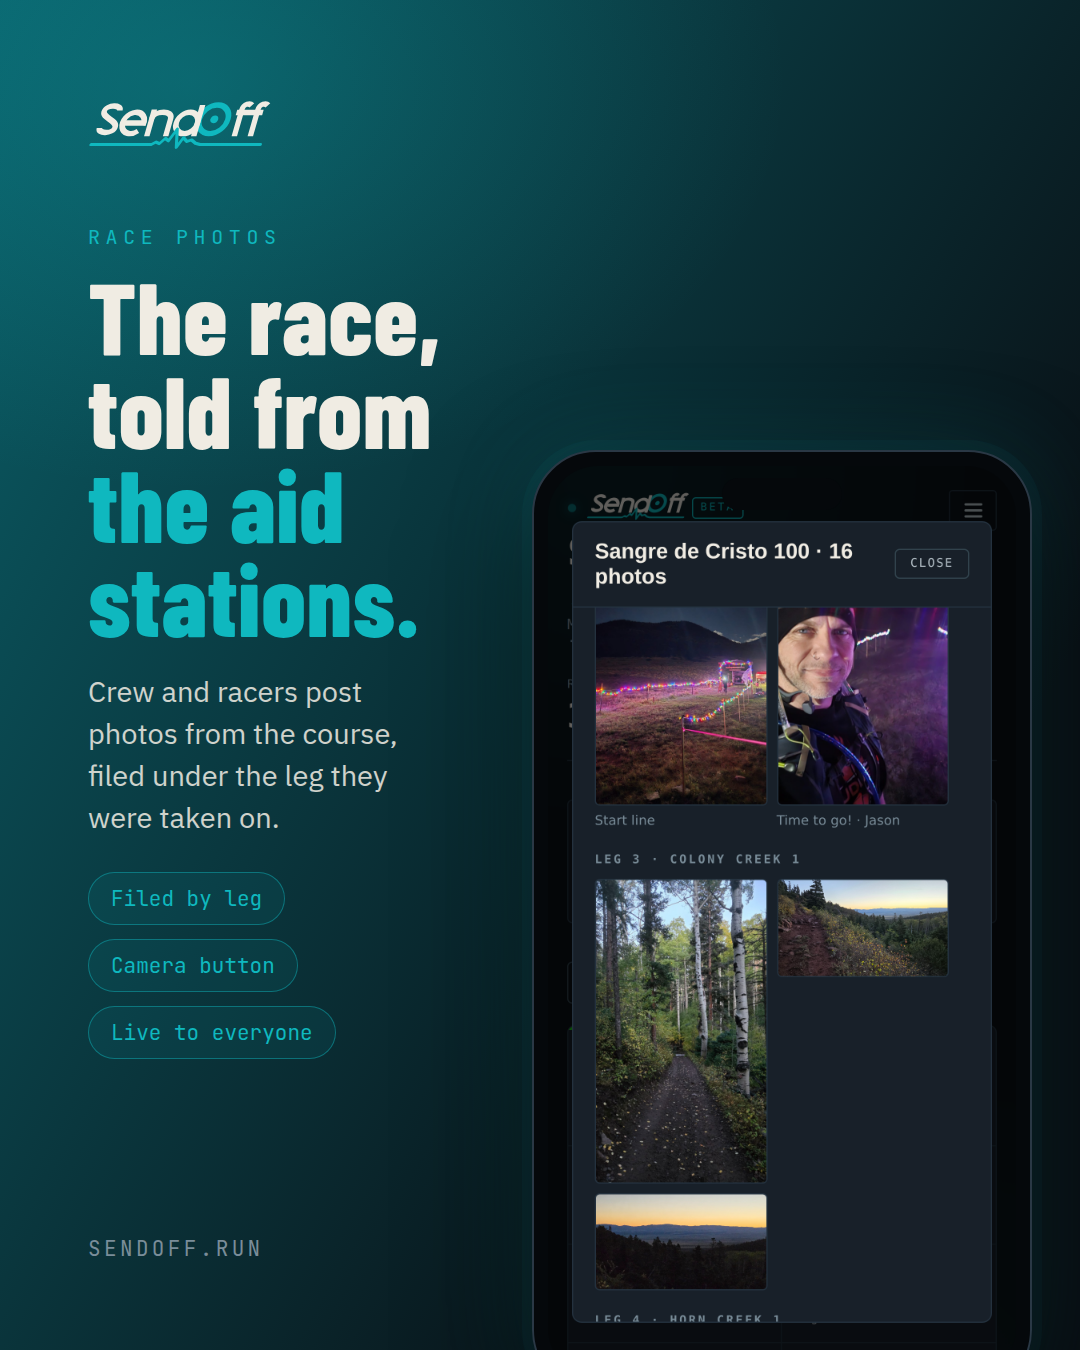
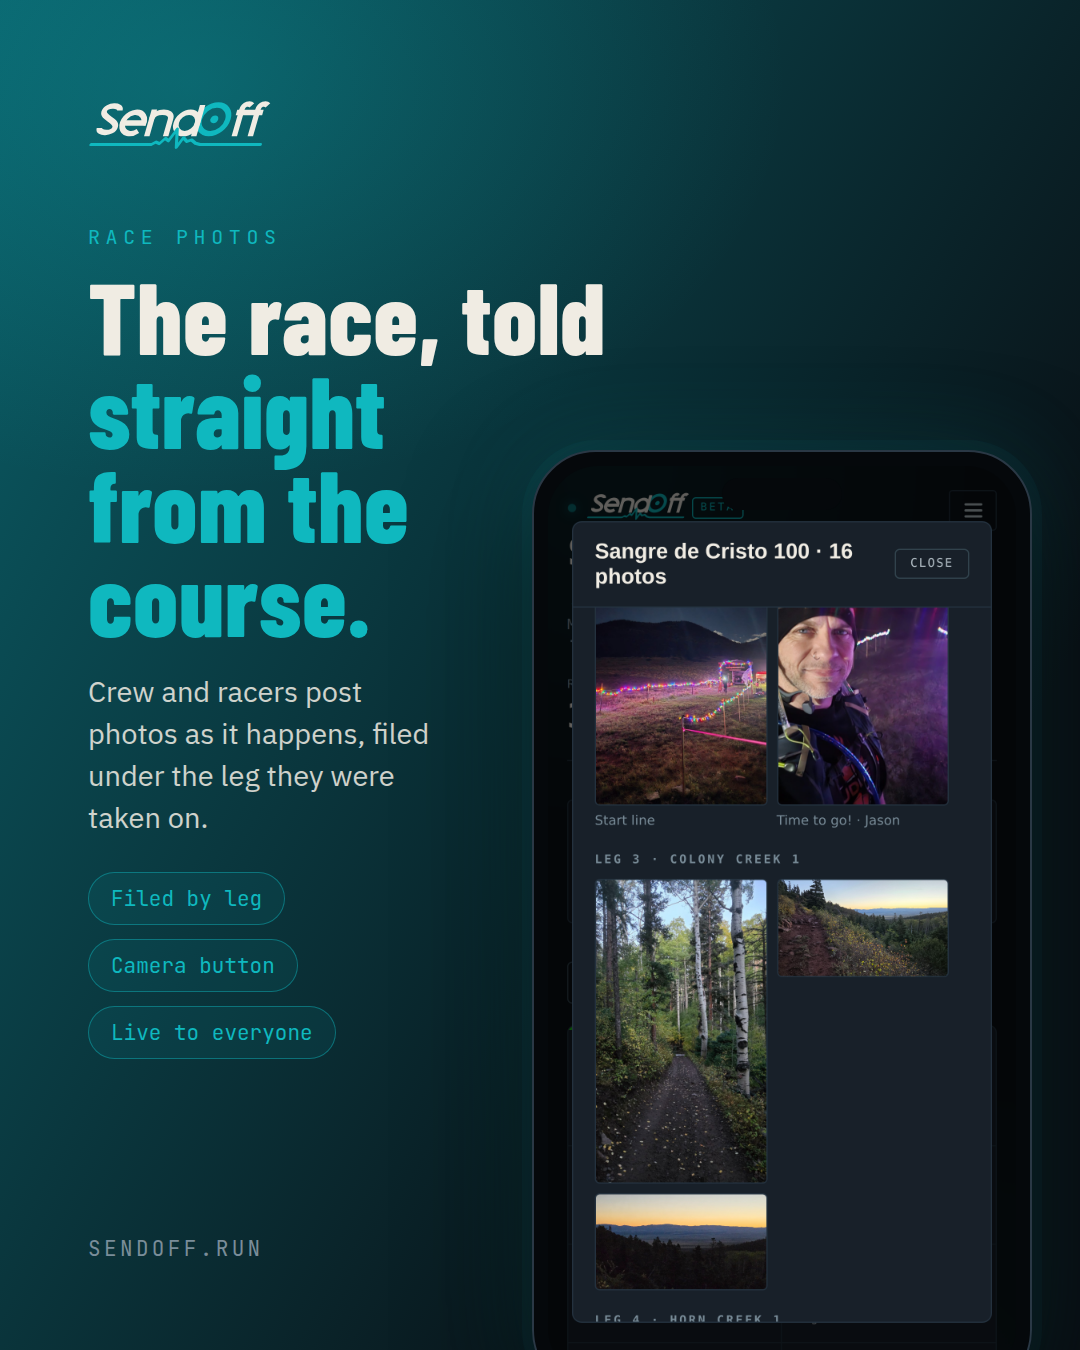
Social: "The race, told straight from the course."
The race photos post's headline and caption said "told from the aid
stations"; photos come from anywhere on the course. The image's line beneath
and the caption's next sentence said "from the course" too, so they now say
"as it happens" rather than repeat it. Re-rendered as PNG and JPEG.

Claude-Session: https://claude.ai/code/session_01EWRjYYN5ZDLhgR1pme87tD

Changed region(s): [[0.0611, 0.28, 0.3972, 0.4978], [0.0917, 0.5289, 0.3972, 0.6222], [0.4278, 0.1867, 0.5806, 0.28]]

diff --git a/brand/social/features.html b/brand/social/features.html
@@ -110,8 +110,8 @@
   <div class="top">
     <div class="wm"></div>
     <p class="kick">Race photos</p>
-    <h1>The race,<br>told from<br><em>the aid<br>stations.</em></h1>
-    <p class="lead" style="max-width:21ch">Crew and racers post photos from the course, filed under the leg they were taken on.</p>
+    <h1>The race, told<br><em>straight<br>from the<br>course.</em></h1>
+    <p class="lead" style="max-width:21ch">Crew and racers post photos as it happens, filed under the leg they were taken on.</p>
     <div class="chips"><span class="chip">Filed by leg</span><span class="chip">Camera button</span><span class="chip">Live to everyone</span></div>
   </div>
   <div class="phone"><img src="shots/photos.png" alt=""></div>

diff --git a/brand/social/captions.md b/brand/social/captions.md
@@ -37,9 +37,9 @@ Link in bio.
 
 ## 3. Race photos (`sendoff-feature-photos.png`)
 
-The race, told from the aid stations. 📸
+The race, told straight from the course. 📸
 
-Crew and racers post photos straight from the course, and each one is filed under the leg where it was taken. Everyone following sees them within seconds.
+Crew and racers post photos as the race happens, and each one is filed under the leg where it was taken. Everyone following sees them within seconds.
 
 There's a camera button too, because nobody has the signal to browse a gallery at mile 60.
 
